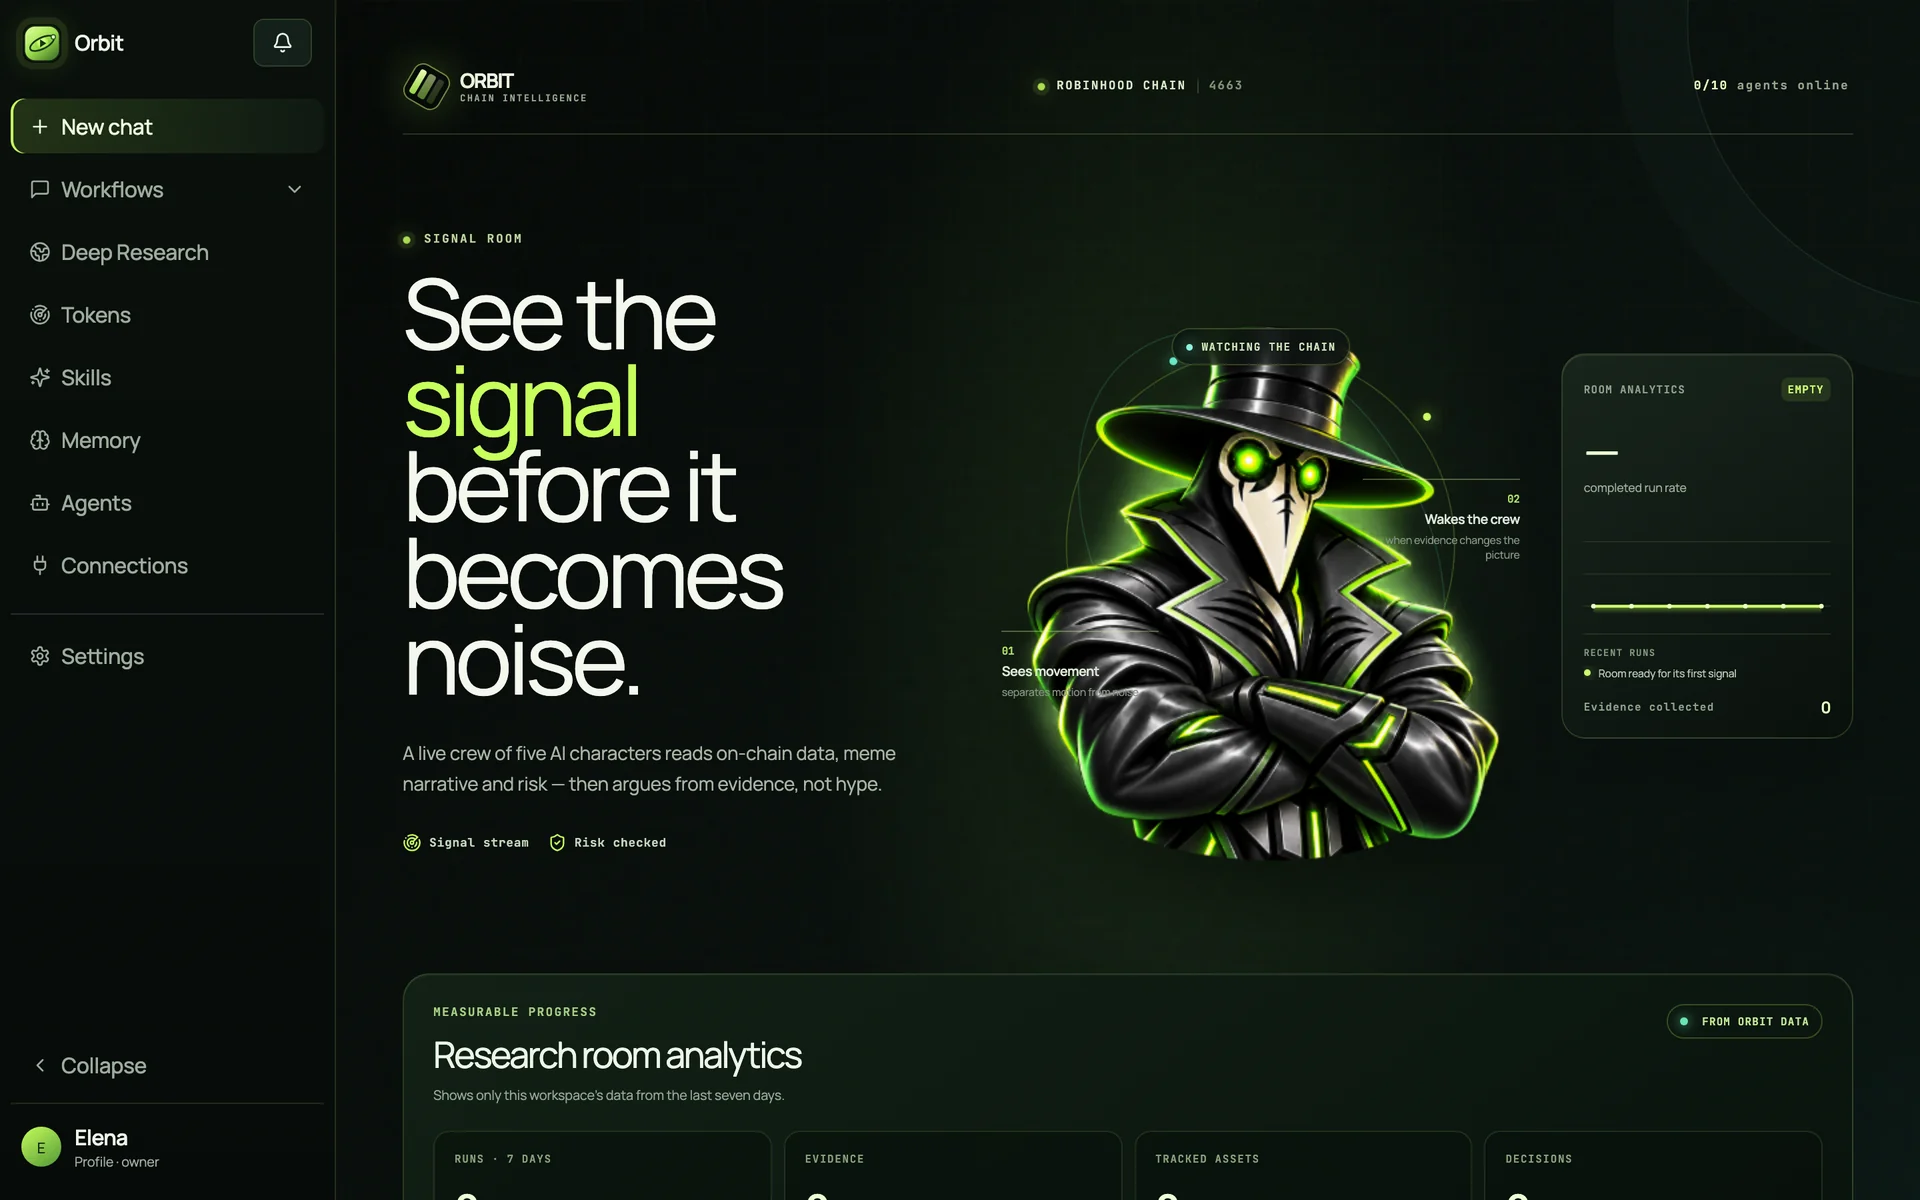
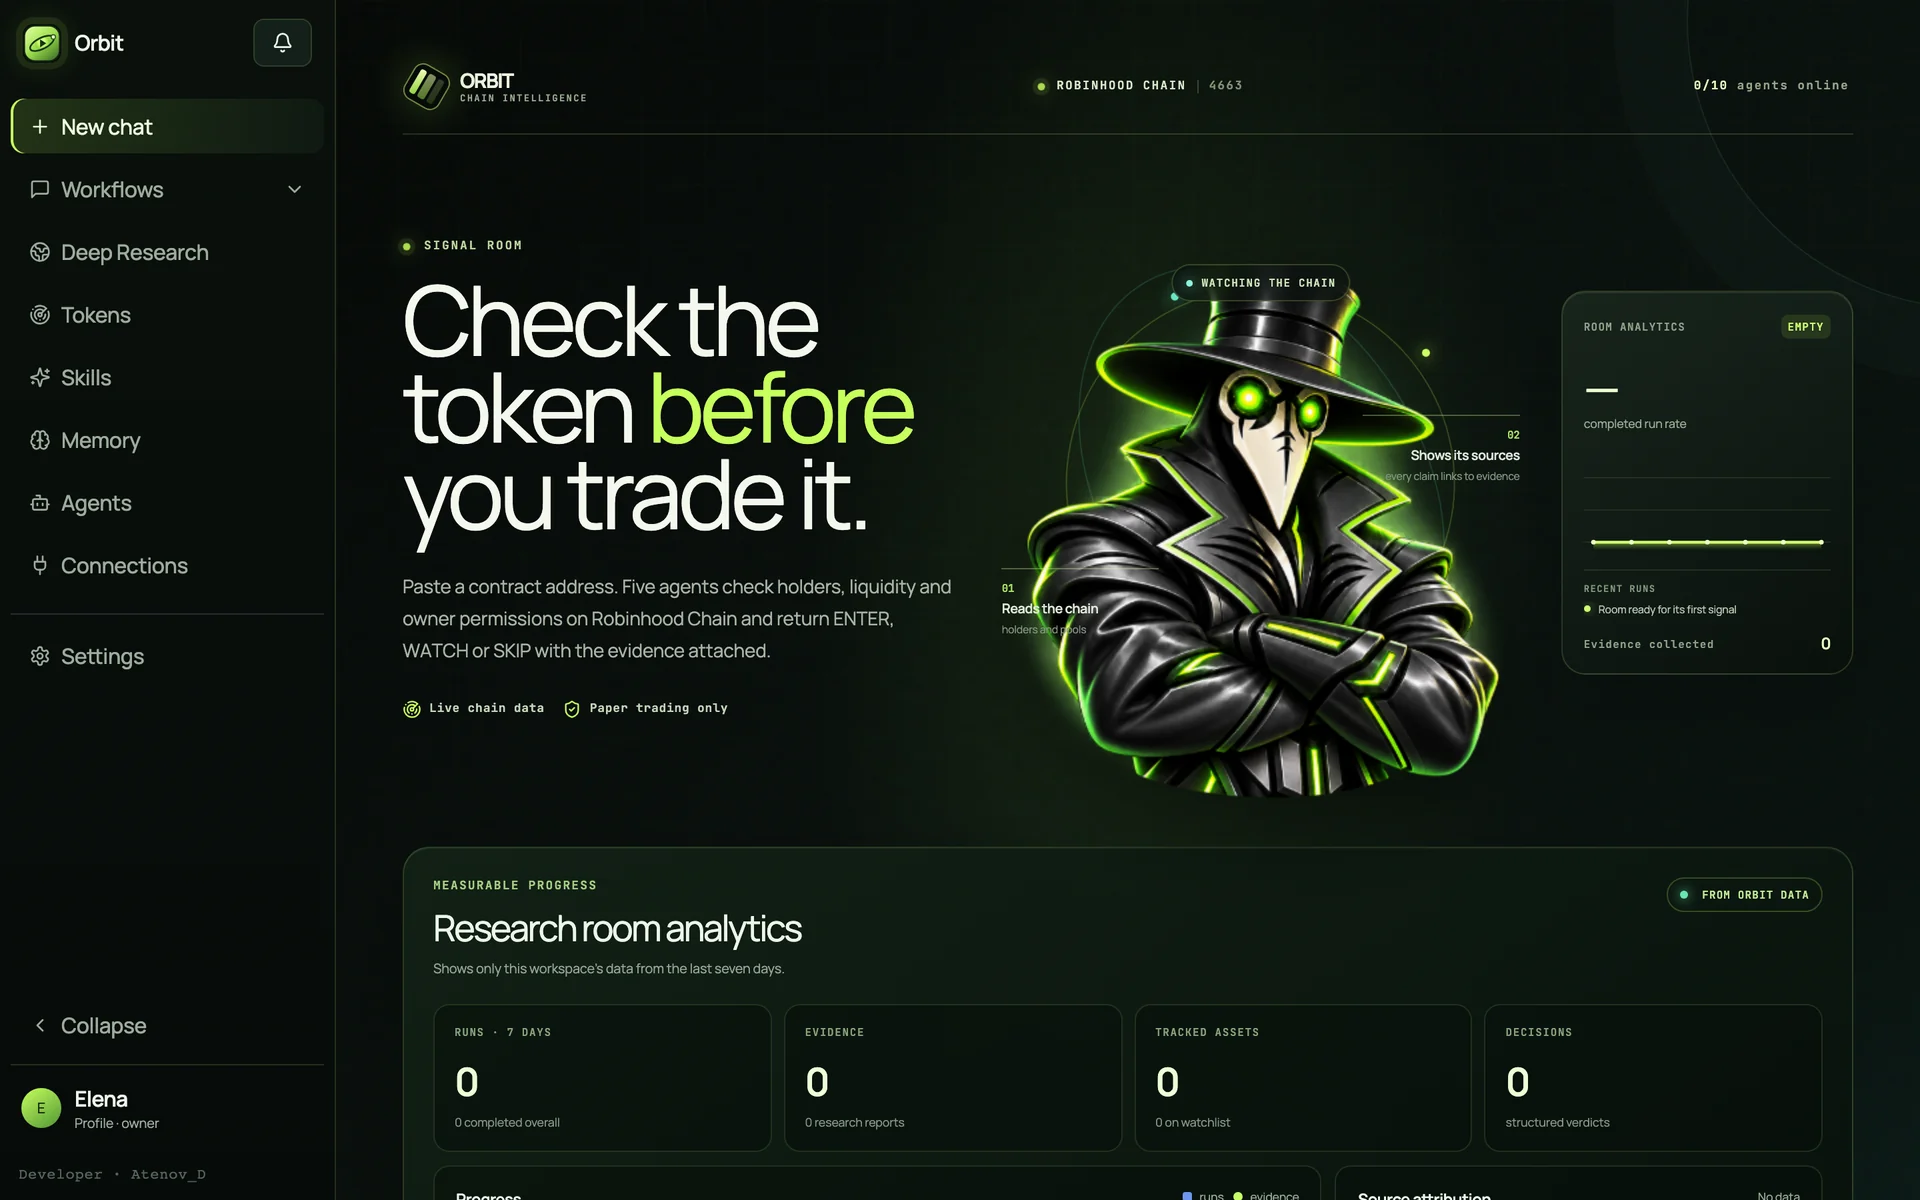
Replace generic hero copy with a concrete description
Home headline, lede, callouts and README now say what the product does
(check holders, liquidity and owner permissions; ENTER/WATCH/SKIP with
evidence) instead of a signal/noise slogan.

diff --git a/frontend/src/App.tsx b/frontend/src/App.tsx
@@ -2670,23 +2670,23 @@ function NewChat({
           <div className="signal-deck-copy">
             <p className="signal-kicker"><i /> {ru ? "СИГНАЛЬНАЯ КОМНАТА" : "SIGNAL ROOM"}</p>
             <h1>
-              {ru ? <>Заметить <em>сигнал</em><br />до того, как он станет шумом.</> : <>See the <em>signal</em><br />before it becomes noise.</>}
+              {ru ? <>Проверьте токен <em>до</em> того, как торговать.</> : <>Check the token <em>before</em> you trade it.</>}
             </h1>
             <p className="signal-lede">
               {ru
-                ? "Живая команда из пяти AI-персонажей читает on-chain данные, мем-нарратив и риск — и спорит с фактами, а не с хайпом."
-                : "A live crew of five AI characters reads on-chain data, meme narrative and risk — then argues from evidence, not hype."}
+                ? "Вставьте адрес контракта. Пять агентов проверят холдеров, ликвидность и права владельца в Robinhood Chain и вернут ENTER, WATCH или SKIP со ссылками на доказательства."
+                : "Paste a contract address. Five agents check holders, liquidity and owner permissions on Robinhood Chain and return ENTER, WATCH or SKIP with the evidence attached."}
             </p>
             <div className="signal-proof">
-              <span><Radar /> {ru ? "Поток сигналов" : "Signal stream"}</span>
-              <span><ShieldCheck /> {ru ? "Риск под контролем" : "Risk checked"}</span>
+              <span><Radar /> {ru ? "Данные прямо из сети" : "Live chain data"}</span>
+              <span><ShieldCheck /> {ru ? "Только бумажная торговля" : "Paper trading only"}</span>
             </div>
           </div>
           <div className="signal-scout-stage">
             <div className="signal-scout-caption"><i /> {value.trim() ? (ru ? "СКАНИРУЕТ БРИФ" : "SCANNING BRIEF") : (ru ? "НАБЛЮДАЕТ ЗА ЦЕПЬЮ" : "WATCHING THE CHAIN")}</div>
             <Mascot state={value.trim() ? "thinking" : selectedAgents.size ? "done" : "idle"} size={348} />
-            <div className="signal-scout-callout signal-scout-callout-left"><small>01</small><b>{ru ? "Видит движение" : "Sees movement"}</b><span>{ru ? "и отделяет всплеск от шума" : "separates motion from noise"}</span></div>
-            <div className="signal-scout-callout signal-scout-callout-right"><small>02</small><b>{ru ? "Будит команду" : "Wakes the crew"}</b><span>{ru ? "когда факт меняет картину" : "when evidence changes the picture"}</span></div>
+            <div className="signal-scout-callout signal-scout-callout-left"><small>01</small><b>{ru ? "Читает сеть" : "Reads the chain"}</b><span>{ru ? "холдеры и пулы" : "holders and pools"}</span></div>
+            <div className="signal-scout-callout signal-scout-callout-right"><small>02</small><b>{ru ? "Показывает источники" : "Shows its sources"}</b><span>{ru ? "у каждого вывода есть ссылка" : "every claim links to evidence"}</span></div>
           </div>
           <aside className="signal-market-card">
             <header><span>{ru ? "АНАЛИТИКА РАБОЧЕЙ КОМНАТЫ" : "ROOM ANALYTICS"}</span><i>{history.length ? "LIVE DATA" : "EMPTY"}</i></header>
@@ -2720,7 +2720,7 @@ function NewChat({
         </section>
         <section className="signal-crew-section">
           <header>
-            <div><p>{ru ? "БАЗОВАЯ КОМАНДА" : "CORE CREW"}</p><h2>{ru ? "Пять личностей. Один сигнал." : "Five personalities. One signal."}</h2></div>
+            <div><p>{ru ? "БАЗОВАЯ КОМАНДА" : "CORE CREW"}</p><h2>{ru ? "Пять агентов, пять задач." : "Five agents, five jobs."}</h2></div>
             <button onClick={() => setPickerOpen(true)}>{ru ? "Настроить до 10" : "Configure up to 10"}<ChevronRight /></button>
           </header>
           <div className="signal-crew-filmstrip">

diff --git a/README.md b/README.md
@@ -1,5 +1,5 @@
 <p align="center">
-  <img src="assets/banner.svg" alt="Orbit — See the signal before it becomes noise" width="100%">
+  <img src="assets/banner.svg" alt="Orbit — Check the token before you trade it" width="100%">
 </p>
 
 <p align="center">
@@ -22,10 +22,10 @@
 </p>
 
 <p align="center">
-  A live crew of five AI agents that reads on-chain data, meme narrative and risk on Robinhood Chain - then argues from evidence, not hype. No live orders, ever.
+  Paste a Robinhood Chain contract address and five AI agents check its holders, liquidity and owner permissions, then return ENTER, WATCH or SKIP with linked evidence. Paper trading only. No live orders, ever.
 </p>
 
-<h3 align="center">Most AI trading demos ask a model for a vibe.<br>This one makes the model show its evidence - and lets only deterministic code promote a decision.</h3>
+<h3 align="center">Every verdict comes with its evidence.<br>A protection gate written in code, not a prompt, decides whether an ENTER survives.</h3>
 
 <table align="center">
   <tr>
@@ -68,7 +68,7 @@
 
 ## Why Orbit
 
-Most "AI trading" demos hand a model a chart and ask for a vibe. Orbit is built around the opposite idea:
+A language model can write a convincing case for any token. Orbit treats that as a proposal to be checked:
 
 > **A model may propose. Only deterministic code may promote.**
 
